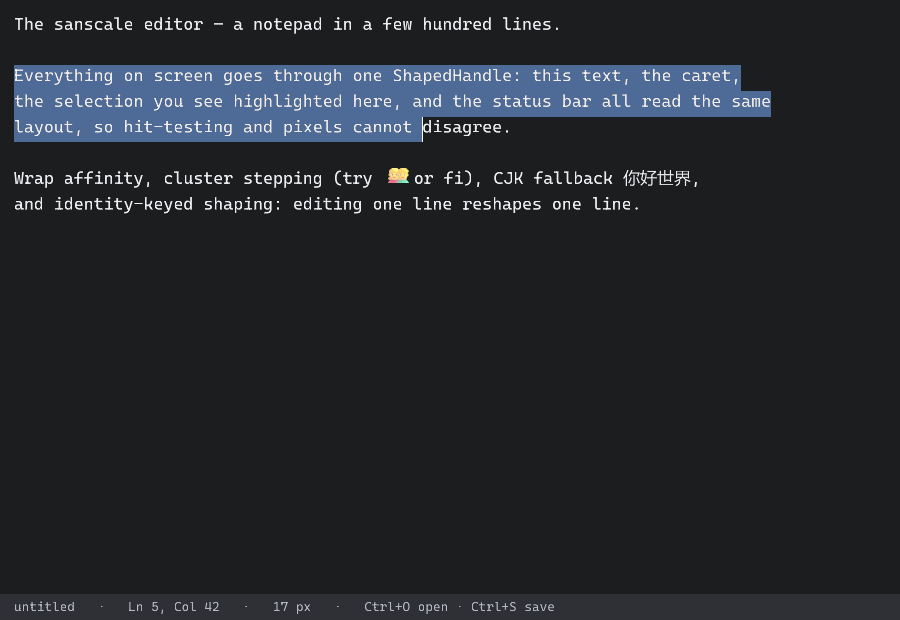
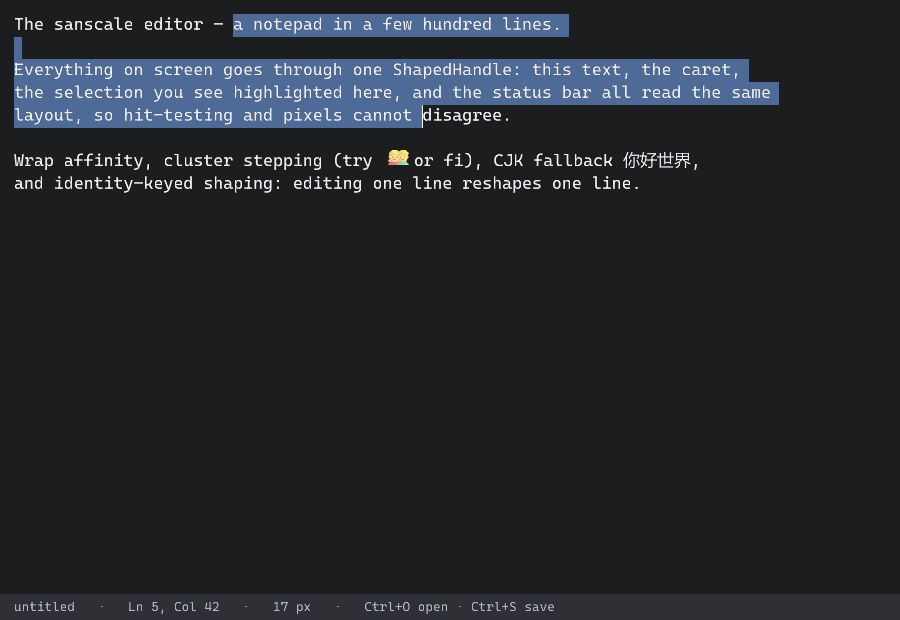
Selection newline stubs; editor caret polish
Library: Layout::selection() skipped any line whose byte overlap was
empty, so a blank line inside a selection rendered nothing and a
selected hard newline was invisible. A hard break's separator byte
belongs to no line; selecting past a line's end now emits a 0.45 em
stub after the last glyph -- which on a blank line is the whole span.
Soft wraps get no stub (no separator byte; the highlight just continues
on the next line). Unit-tested via a synthetic from_lines layout, no
fonts or GPU.

Editor example:
- Up on the top line snaps to its start, Down on the last to its end
  (the notepad convention); goal column memory survives the snap.
- settle_hint: after an edit whose caret lands exactly on a soft break,
  the caret shows at the end of the line the text was typed on, closing
  the last route to end-of-line-logically / next-line-visually.
- The caret blinks (530 ms, solid while typing -- any input resets the
  phase), scheduled by WaitUntil at the next flip so there is no
  continuous redraw loop. Insert toggles a translucent block caret
  covering the next cluster, its width read from the caret stops.
- line_spacing 1.3 -> 1.15; the highlight no longer floats in space
  below the glyphs.
- The dump selection now crosses the blank line between paragraphs, so
  editor.png proves the stubs render.

Changed region(s): [[0.0, 0.0613, 0.8711, 0.3371], [0.2489, 0.0, 0.6533, 0.0613]]

diff --git a/examples/editor.rs b/examples/editor.rs
@@ -30,6 +30,7 @@ mod common;
 use std::borrow::Cow;
 use std::path::PathBuf;
 use std::sync::Arc;
+use std::time::{Duration, Instant};
 
 use ropey::Rope;
 use sanscale::{
@@ -210,6 +211,9 @@ struct Editor {
     desired_x: Option<f32>, // goal column for vertical motion, em
     scroll_y: f32,          // px
     font_px: f32,
+    /// Insert toggles between the bar caret and a block (overtype-style) caret
+    /// covering the next cluster.
+    caret_block: bool,
 }
 
 enum Motion {
@@ -237,6 +241,7 @@ impl Editor {
             desired_x: None,
             scroll_y: 0.0,
             font_px: 17.0,
+            caret_block: false,
         }
     }
 
@@ -289,10 +294,19 @@ impl Editor {
         Some(natural)
     }
 
-    fn vertical_target(&self, layout: &Layout, delta: isize) -> Option<usize> {
-        let line = self.caret_line(layout)?;
-        Some((line as isize + delta).clamp(0, layout.line_count().saturating_sub(1) as isize)
-            as usize)
+    /// After an edit the caret byte may sit exactly on a soft break; keep it
+    /// shown at the *end* of the line the text was typed on, not the start of
+    /// the next — the same affinity rule as every other placement.
+    fn settle_hint(&mut self, layout: &Layout) {
+        let Some(natural) = layout.line_for_byte(self.cursor) else {
+            return;
+        };
+        if natural > 0
+            && layout.line_range(natural).is_some_and(|r| r.start == self.cursor)
+            && layout.line_range(natural - 1).is_some_and(|r| r.end == self.cursor)
+        {
+            self.line_hint = Some(natural - 1);
+        }
     }
 
     fn motion(&mut self, layout: &Layout, motion: Motion, select: bool) {
@@ -305,9 +319,25 @@ impl Editor {
             _ => None,
         };
         let vertical = |editor: &Editor, delta: isize| -> (usize, Option<usize>) {
-            let Some(target) = editor.vertical_target(layout, delta) else {
+            let Some(current) = editor.caret_line(layout) else {
                 return (editor.cursor, editor.line_hint);
             };
+            let target = (current as isize + delta)
+                .clamp(0, layout.line_count().saturating_sub(1) as isize)
+                as usize;
+            if target == current {
+                // Already on the boundary line: Up snaps to its start, Down to
+                // its end — the notepad convention.
+                let range = layout.line_range(current);
+                let byte = if delta < 0 {
+                    range.map(|r| r.start).unwrap_or(0)
+                } else {
+                    range
+                        .map(|r| r.end)
+                        .unwrap_or_else(|| editor.doc.rope.len_bytes())
+                };
+                return (byte, Some(current));
+            }
             let byte = layout
                 .caret_on_line(target, desired_x.unwrap_or(0.0))
                 .unwrap_or(editor.cursor);
@@ -571,6 +601,7 @@ fn render_frame(
     queue: &wgpu::Queue,
     pass: &mut wgpu::RenderPass<'_>,
     screen: Vec2,
+    caret_visible: bool,
 ) -> Frame {
     let keys = editor.doc.keys();
     let handle = text.shape(BlockKey(1), style, &keys, &editor.doc);
@@ -644,19 +675,43 @@ fn render_frame(
         );
     }
 
-    // Caret, over the glyphs.
-    {
+    // Caret, over the glyphs. The block form covers the next cluster (its
+    // width read from the caret stops), translucent so the glyph shows through.
+    if caret_visible {
         let layout = text.measure(handle);
-        let caret = layout.caret_rect_on_line(editor.caret_line(layout), editor.cursor);
+        let line = editor.caret_line(layout);
+        let caret = layout.caret_rect_on_line(line, editor.cursor);
         let height = if caret.height_em > 0.0 { caret.height_em } else { 1.2 };
-        rects.push(
-            origin.x + caret.x_em * font_px - 0.5,
-            origin.y + caret.y_em * font_px,
-            1.5,
-            height * font_px,
-            CARET,
-            screen,
-        );
+        if editor.caret_block {
+            let width_em = line
+                .and_then(|l| layout.line_range(l))
+                .zip(layout.next_caret_stop(editor.cursor))
+                .filter(|(range, next)| *next <= range.end)
+                .map(|(_, next)| {
+                    (layout.caret_rect_on_line(line, next).x_em - caret.x_em).abs()
+                })
+                .filter(|w| *w > 0.05)
+                .unwrap_or(0.55);
+            let mut color = CARET;
+            color[3] = 0.45;
+            rects.push(
+                origin.x + caret.x_em * font_px,
+                origin.y + caret.y_em * font_px,
+                width_em * font_px,
+                height * font_px,
+                color,
+                screen,
+            );
+        } else {
+            rects.push(
+                origin.x + caret.x_em * font_px - 0.5,
+                origin.y + caret.y_em * font_px,
+                1.5,
+                height * font_px,
+                CARET,
+                screen,
+            );
+        }
     }
     rects.flush(device, pass);
     Frame { handle: Some(handle) }
@@ -681,6 +736,22 @@ impl ApplicationHandler for App {
                 self.path.take(),
             )));
         }
+    }
+
+    /// Blink scheduling: wake at the next phase flip and repaint only when one
+    /// actually happened — no continuous redraw loop.
+    fn about_to_wait(&mut self, event_loop: &ActiveEventLoop) {
+        let Some(gfx) = self.gfx.as_mut() else { return };
+        let since = gfx.last_input.elapsed().as_millis() as u64;
+        let phase = since / BLINK_MS;
+        if phase != gfx.blink_phase {
+            gfx.blink_phase = phase;
+            gfx.window.request_redraw();
+        }
+        let next_flip = BLINK_MS - (since % BLINK_MS);
+        event_loop.set_control_flow(ControlFlow::WaitUntil(
+            Instant::now() + Duration::from_millis(next_flip.max(1)),
+        ));
     }
 
     fn window_event(&mut self, event_loop: &ActiveEventLoop, _id: WindowId, event: WindowEvent) {
@@ -742,7 +813,14 @@ struct Gfx {
     mods: ModifiersState,
     cursor: Vec2,
     dragging: bool,
+    /// Caret blink anchor: any input resets it, so the caret is solid while
+    /// you type and blinks only at rest.
+    last_input: Instant,
+    blink_phase: u64,
 }
+
+/// Half a blink cycle: visible for one period, hidden for the next.
+const BLINK_MS: u64 = 530;
 
 impl Gfx {
     async fn new(event_loop: &ActiveEventLoop, font: Option<&str>, path: Option<PathBuf>) -> Self {
@@ -825,6 +903,8 @@ impl Gfx {
             mods: ModifiersState::empty(),
             cursor: Vec2::new(0.0, 0.0),
             dragging: false,
+            last_input: Instant::now(),
+            blink_phase: 0,
         };
         gfx.update_title();
         gfx.window.request_redraw();
@@ -837,7 +917,7 @@ impl Gfx {
             chain: self.chain,
             wrap_em: Some(wrap.max(4.0)),
             align: Align::Left,
-            line_spacing: 1.3,
+            line_spacing: 1.15,
         }
     }
 
@@ -869,12 +949,16 @@ impl Gfx {
             (self.cursor.y - MARGIN + self.editor.scroll_y) / self.editor.font_px,
         );
         if let Some(hit) = layout.hit_test(em) {
+            self.last_input = Instant::now();
+            self.blink_phase = 0;
             self.editor.place(hit.byte_index, Some(hit.line_index), select);
             self.window.request_redraw();
         }
     }
 
     fn on_key(&mut self, event: winit::event::KeyEvent) {
+        self.last_input = Instant::now();
+        self.blink_phase = 0;
         let ctrl = self.mods.control_key();
         let shift = self.mods.shift_key();
         let Some(handle) = self.last_handle else { return };
@@ -903,6 +987,10 @@ impl Gfx {
             Key::Named(NamedKey::Enter) => editor.insert("\n"),
             Key::Named(NamedKey::Tab) => editor.insert("    "),
             Key::Named(NamedKey::Escape) => editor.anchor = None,
+            Key::Named(NamedKey::Insert) => {
+                editor.caret_block = !editor.caret_block;
+                edited = false;
+            }
             Key::Character(ref c) if ctrl => match c.as_str() {
                 "a" | "A" => {
                     editor.anchor = Some(0);
@@ -953,6 +1041,7 @@ impl Gfx {
                 self.last_handle = Some(handle);
                 let view_h = self.config.height as f32;
                 let layout = self.text.measure(handle);
+                self.editor.settle_hint(layout);
                 self.editor.scroll_caret_into_view(layout, view_h);
             }
         }
@@ -1032,6 +1121,8 @@ impl Gfx {
                 occlusion_query_set: None,
                 multiview_mask: None,
             });
+            let caret_visible =
+                (self.last_input.elapsed().as_millis() as u64 / BLINK_MS) % 2 == 0;
             let result = render_frame(
                 &mut self.text,
                 &mut self.rects,
@@ -1041,6 +1132,7 @@ impl Gfx {
                 &self.queue,
                 &mut pass,
                 screen,
+                caret_visible,
             );
             self.last_handle = result.handle;
         }
@@ -1072,7 +1164,9 @@ fn dump_png(font: Option<&str>) {
     let mut editor = Editor::new(Doc::from_text(DUMP_TEXT, None));
     // A selection spanning the wrap on the third paragraph, and the caret at
     // its end — the dump shows overlays, not just glyphs.
-    let start = DUMP_TEXT.find("Everything").unwrap();
+    // Spanning the blank line between two paragraphs, so the dump proves the
+    // newline stubs render (a blank line inside a selection is not invisible).
+    let start = DUMP_TEXT.find("a notepad").unwrap();
     let end = DUMP_TEXT.find("disagree").unwrap();
     editor.anchor = Some(start);
     editor.cursor = end;
@@ -1080,7 +1174,7 @@ fn dump_png(font: Option<&str>) {
         chain,
         wrap_em: Some((900.0 - 2.0 * MARGIN) / editor.font_px),
         align: Align::Left,
-        line_spacing: 1.3,
+        line_spacing: 1.15,
     };
     harness.save_png(&mut text, BG, "editor.png", |text, device, queue, pass| {
         render_frame(
@@ -1092,6 +1186,7 @@ fn dump_png(font: Option<&str>) {
             queue,
             pass,
             Vec2::new(900.0, 620.0),
+            true,
         );
     });
     println!("wrote editor.png");

diff --git a/src/text.rs b/src/text.rs
@@ -459,20 +459,36 @@ impl Layout {
         if range.is_empty() {
             return Vec::new();
         }
+        /// Visual width of a selected line break, em: the stub an editor shows
+        /// past the last glyph — and the entire highlight of a blank line.
+        const NEWLINE_STUB_EM: f32 = 0.45;
         let mut spans = Vec::new();
         for (index, line) in self.lines.iter().enumerate() {
             let start = range.start.max(line.byte_range.start);
             let end = range.end.min(line.byte_range.end);
-            if start >= end {
+            // A hard break's separator byte belongs to no line. Selecting past
+            // this line's end selects it, and that must be *visible*: a stub
+            // after the last glyph, which on a blank line is the whole span.
+            // Soft wraps have no separator byte and get no stub — the highlight
+            // simply continues on the next line.
+            let hard_break = self
+                .lines
+                .get(index + 1)
+                .is_some_and(|next| next.byte_range.start > line.byte_range.end);
+            let newline_selected = hard_break
+                && range.start <= line.byte_range.end
+                && range.end > line.byte_range.end;
+            if start >= end && !newline_selected {
                 continue;
             }
-            let x0 = caret_x_on(line, start);
-            let x1 = caret_x_on(line, end);
+            let x0 = caret_x_on(line, start.min(end));
+            let x1 = caret_x_on(line, end.max(start));
+            let stub = if newline_selected { NEWLINE_STUB_EM } else { 0.0 };
             spans.push(SelectionSpan {
                 line: index,
                 x_em: x0.min(x1) + line.align_em,
                 y_em: line.metrics.top_em,
-                width_em: (x1 - x0).abs(),
+                width_em: (x1 - x0).abs() + stub,
                 height_em: line.metrics.height_em,
             });
         }
@@ -1776,6 +1792,44 @@ fn normalized_clip(item: &Draw) -> Option<Rect> {
 mod tests {
     use super::*;
     use crate::font::read_font_file;
+
+    /// Three hard-broken lines — "ab" (0..2), blank (3..3), "cd" (4..6) — with
+    /// unit-advance caret stops, GPU- and font-free via `from_lines`.
+    fn three_line_layout() -> Layout {
+        let line = |bytes: Range<usize>, top: f32| LayoutLineSpec {
+            carets: bytes
+                .clone()
+                .chain([bytes.end])
+                .enumerate()
+                .map(|(i, byte_index)| CaretStop { byte_index, x_em: i as f32 })
+                .collect(),
+            metrics: LineMetrics {
+                top_em: top,
+                baseline_em: top + 0.8,
+                height_em: 1.0,
+                width_em: bytes.len() as f32,
+            },
+            byte_range: bytes,
+        };
+        Layout::from_lines(vec![line(0..2, 0.0), line(3..3, 1.0), line(4..6, 2.0)])
+    }
+
+    /// A selected hard newline shows as a stub past the last glyph, and a blank
+    /// line inside the selection is a stub rather than nothing at all.
+    #[test]
+    fn selection_shows_newline_stubs_and_blank_lines() {
+        let layout = three_line_layout();
+        let spans = layout.selection(1..5);
+        assert_eq!(spans.len(), 3, "every line the selection touches has a span");
+        assert!(spans[0].width_em > 1.0, "line 0: one glyph plus the newline stub");
+        assert_eq!(spans[1].line, 1);
+        assert!(spans[1].width_em > 0.0, "blank line: a visible stub, not nothing");
+        assert!((spans[2].width_em - 1.0).abs() < 1e-6, "line 2: one glyph, newline not selected");
+        // Selection ending exactly at a line's end selects no newline: no stub.
+        let spans = layout.selection(0..2);
+        assert_eq!(spans.len(), 1);
+        assert!((spans[0].width_em - 2.0).abs() < 1e-6);
+    }
 
     fn font(paths: &[&str]) -> Option<FontData> {
         paths
